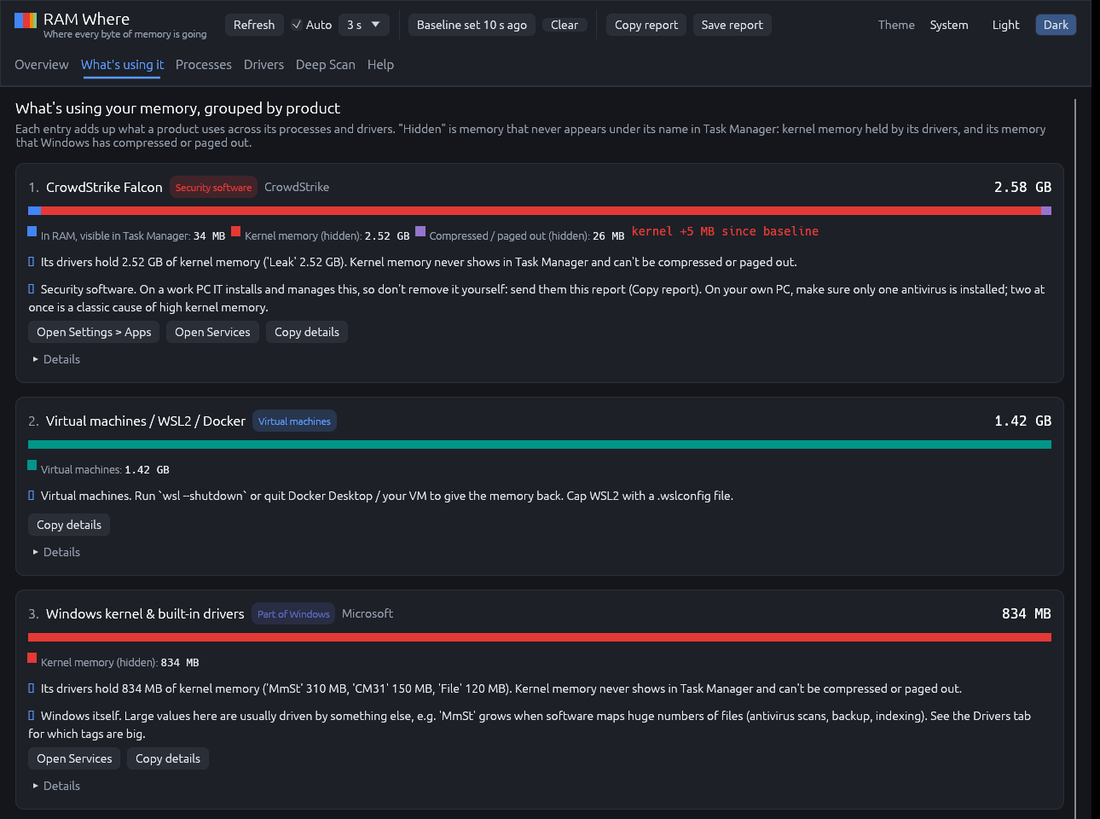
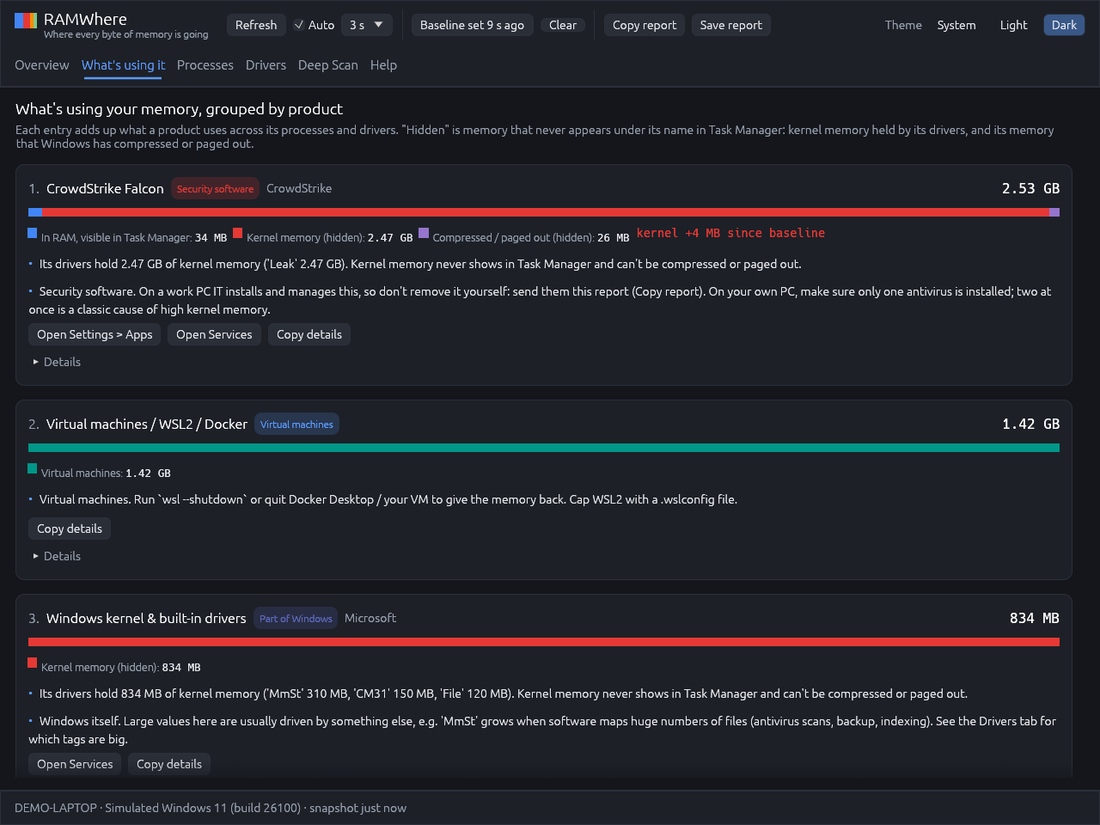
Rename to RAMWhere
The app, window title, reports, version resource and executable are now
consistently named RAMWhere (RAMWhere.exe). Screenshots refreshed.

diff --git a/src/app.rs b/src/app.rs
@@ -60,7 +60,7 @@ pub fn run(force_glow: bool) {
         .unwrap_or([1280.0, 860.0]);
     let options = eframe::NativeOptions {
         viewport: egui::ViewportBuilder::default()
-            .with_title("RAM Where")
+            .with_title("RAMWhere")
             .with_inner_size(size)
             .with_min_inner_size([760.0, 480.0])
             .with_icon(Arc::new(icon())),
@@ -68,7 +68,7 @@ pub fn run(force_glow: bool) {
         ..Default::default()
     };
     let result = std::panic::catch_unwind(std::panic::AssertUnwindSafe(|| {
-        eframe::run_native("RAM Where", options, Box::new(|cc| Ok(Box::new(App::new(cc)))))
+        eframe::run_native("RAMWhere", options, Box::new(|cc| Ok(Box::new(App::new(cc)))))
     }));
     let err = match result {
         Ok(Ok(())) => return,
@@ -84,7 +84,7 @@ pub fn run(force_glow: bool) {
             }
         }
     }
-    fatal(&format!("RAM Where couldn't start its window: {err}\n\nUse --report <file> for a text report instead."));
+    fatal(&format!("RAMWhere couldn't start its window: {err}\n\nUse --report <file> for a text report instead."));
 }
 
 fn fatal(msg: &str) {
@@ -92,7 +92,7 @@ fn fatal(msg: &str) {
     {
         use std::os::windows::ffi::OsStrExt;
         let w: Vec<u16> = std::ffi::OsStr::new(msg).encode_wide().chain(Some(0)).collect();
-        let t: Vec<u16> = std::ffi::OsStr::new("RAM Where").encode_wide().chain(Some(0)).collect();
+        let t: Vec<u16> = std::ffi::OsStr::new("RAMWhere").encode_wide().chain(Some(0)).collect();
         unsafe {
             windows_sys::Win32::UI::WindowsAndMessaging::MessageBoxW(std::ptr::null_mut(), w.as_ptr(), t.as_ptr(), 0x10);
         }
@@ -389,7 +389,7 @@ impl App {
         let (Some(text), Some(snap)) = (self.report_text(), self.snap.clone()) else { return };
         let json = report::json(&snap, &self.owners, self.deep.as_deref());
         let dir = report_dir();
-        let stem = format!("ramwhere-{}-{}", snap.computer_name, snap.taken_at);
+        let stem = format!("RAMWhere-{}-{}", snap.computer_name, snap.taken_at);
         let txt = dir.join(format!("{stem}.txt"));
         let js = dir.join(format!("{stem}.json"));
         match std::fs::write(&txt, text).and_then(|_| std::fs::write(&js, json)) {
@@ -613,7 +613,7 @@ impl App {
             }
             ui.vertical(|ui| {
                 ui.spacing_mut().item_spacing.y = 0.0;
-                ui.label(RichText::new("RAM Where").size(19.0).strong());
+                ui.label(RichText::new("RAMWhere").size(19.0).strong());
                 ui.label(RichText::new("Where every byte of memory is going").size(11.5).color(pal.weak));
             });
             ui.add_space(14.0);
@@ -1599,6 +1599,6 @@ fn help(ui: &mut egui::Ui) {
             ui.label(body);
         }
         ui.add_space(12.0);
-        ui.weak(format!("RAM Where v{}. Command line: --report <file> [--deep] writes a text + JSON report without opening a window; --glow uses OpenGL instead of DirectX.", env!("CARGO_PKG_VERSION")));
+        ui.weak(format!("RAMWhere v{}. Command line: --report <file> [--deep] writes a text + JSON report without opening a window; --glow uses OpenGL instead of DirectX.", env!("CARGO_PKG_VERSION")));
     });
 }

diff --git a/src/report.rs b/src/report.rs
@@ -7,7 +7,7 @@ use std::fmt::Write;
 
 pub fn text(snap: &Snapshot, bd: &Breakdown, findings: &[Finding], owners: &HashMap<String, TagOwner>, deep: Option<&DeepScan>) -> String {
     let mut s = String::new();
-    let _ = writeln!(s, "RAM Where report v{}", env!("CARGO_PKG_VERSION"));
+    let _ = writeln!(s, "RAMWhere report v{}", env!("CARGO_PKG_VERSION"));
     let _ = writeln!(s, "{} | {} | admin: {} | VBS: {}", snap.computer_name, snap.os_version, snap.elevated, snap.vbs_running.map(|v| v.to_string()).unwrap_or("?".into()));
     let _ = writeln!(
         s,

diff --git a/build.rs b/build.rs
@@ -1,7 +1,7 @@
 fn main() {
-    println!("cargo:rerun-if-changed=assets/ramwhere.rc");
-    println!("cargo:rerun-if-changed=assets/ramwhere.ico");
+    println!("cargo:rerun-if-changed=assets/RAMWhere.rc");
+    println!("cargo:rerun-if-changed=assets/RAMWhere.ico");
     if std::env::var("CARGO_CFG_TARGET_OS").as_deref() == Ok("windows") {
-        embed_resource::compile("assets/ramwhere.rc", embed_resource::NONE).manifest_optional().unwrap();
+        embed_resource::compile("assets/RAMWhere.rc", embed_resource::NONE).manifest_optional().unwrap();
     }
 }

diff --git a/src/main.rs b/src/main.rs
@@ -12,7 +12,7 @@ mod theme;
 fn main() {
     let args: Vec<String> = std::env::args().collect();
     if let Some(i) = args.iter().position(|a| a == "--report") {
-        let out = args.get(i + 1).cloned().unwrap_or_else(|| "ramwhere-report.txt".into());
+        let out = args.get(i + 1).cloned().unwrap_or_else(|| "RAMWhere-report.txt".into());
         let deep = args.iter().any(|a| a == "--deep");
         std::process::exit(app::headless_report(&out, deep));
     }

diff --git a/README.md b/README.md
@@ -1,8 +1,8 @@
-# RAM Where
+# RAMWhere
 
 **Task Manager says 9 GB is in use, but its process list adds up to 1.4 GB. Where's the rest?**
 
-RAM Where is a small Windows app that accounts for every byte of RAM, including everything Task Manager
+RAMWhere is a small Windows app that accounts for every byte of RAM, including everything Task Manager
 never itemizes, and tells you which product is responsible and what you can do about it.
 
 ![Overview](docs/overview.png)
@@ -26,7 +26,7 @@ never itemizes, and tells you which product is responsible and what you can do a
 
 ## Download
 
-Grab `ramwhere.exe` from the [latest release](../../releases/latest). It's a single exe for 64-bit Windows 10/11;
+Grab `RAMWhere.exe` from the [latest release](../../releases/latest). It's a single exe for 64-bit Windows 10/11;
 nothing to install. It isn't code-signed, so SmartScreen will warn you: **More info → Run anyway**.
 
 Click **Restart as administrator** for the full picture (standby/modified lists and Deep Scan).
@@ -40,8 +40,8 @@ drivers and programs (`src/culprits.rs`); additions are welcome.
 
 ## Command line
 
-- `ramwhere.exe --report out.txt [--deep]`: write a text + JSON report without opening a window.
-- `ramwhere.exe --glow`: use OpenGL instead of DirectX 12 (it falls back automatically if DirectX fails).
+- `RAMWhere.exe --report out.txt [--deep]`: write a text + JSON report without opening a window.
+- `RAMWhere.exe --glow`: use OpenGL instead of DirectX 12 (it falls back automatically if DirectX fails).
 
 Put Microsoft's `pooltag.txt` next to the exe for richer pool tag descriptions. It's picked up automatically when
 the Debugging Tools for Windows are installed.
